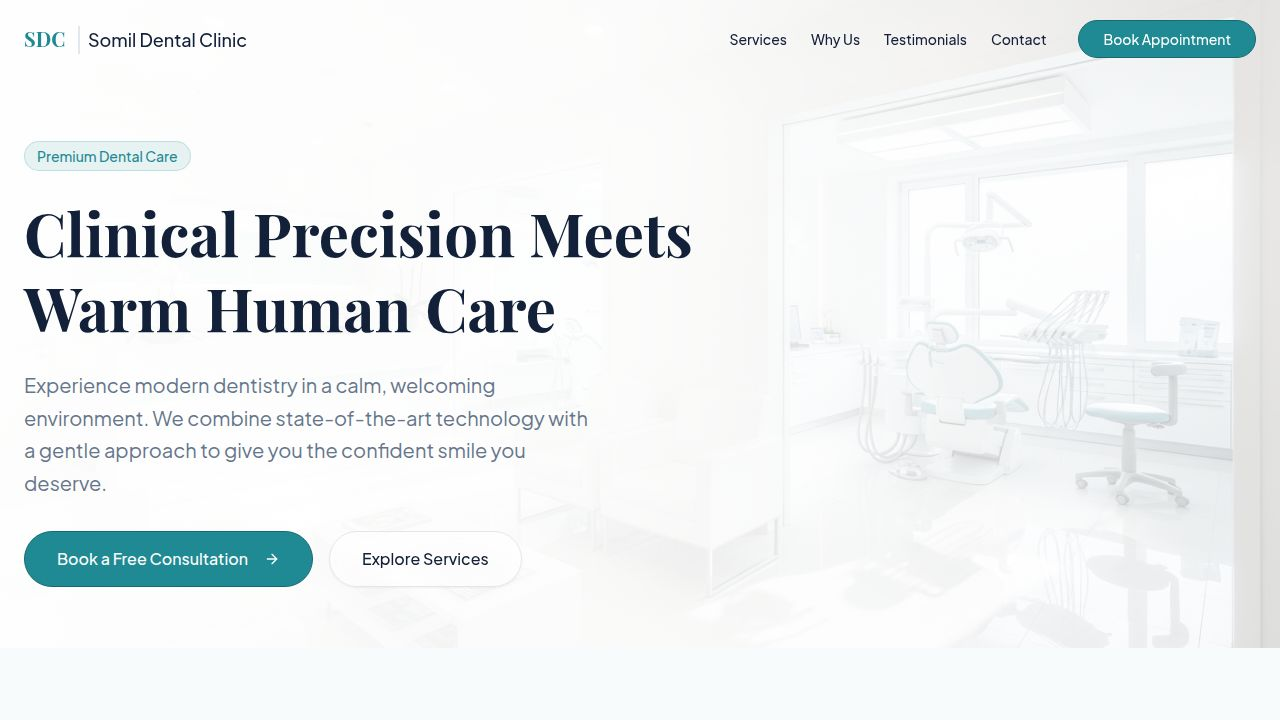
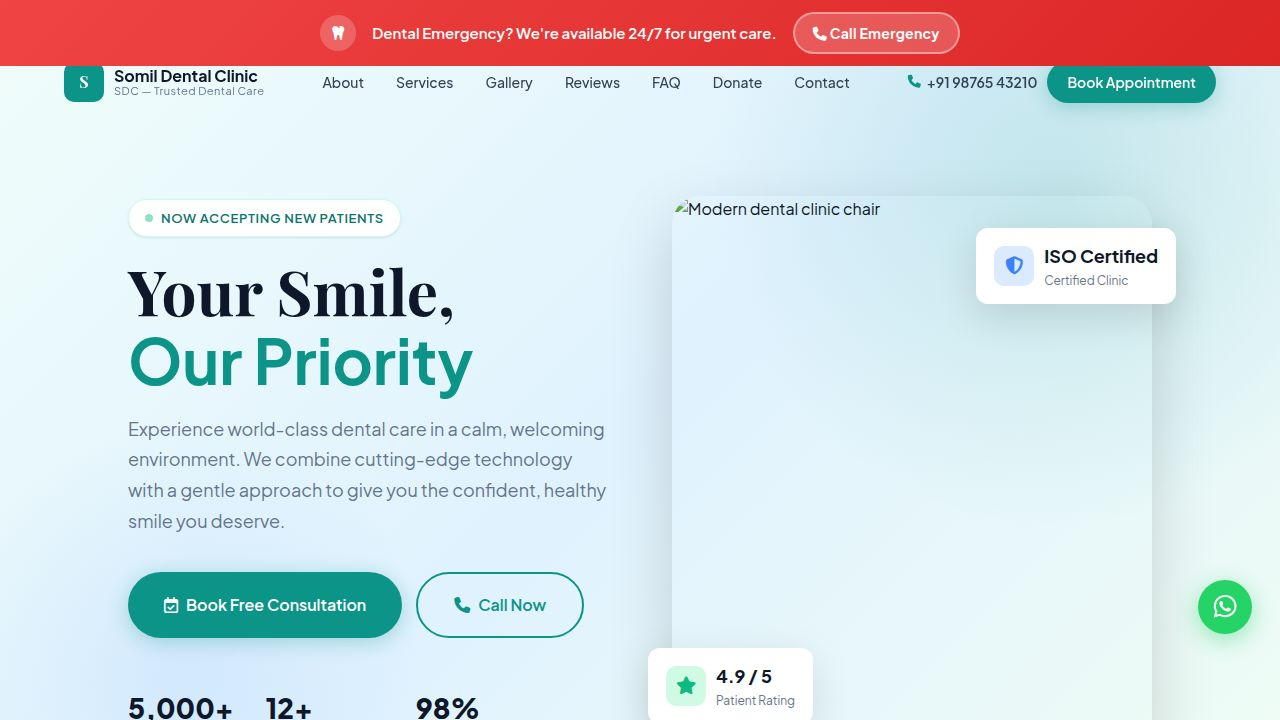
Improve website layout and replace broken images with custom graphics
Update HTML and CSS to fix layout issues, adjust navigation positioning, and replace external image links with self-contained CSS graphics for improved reliability and visual appeal.

Replit-Commit-Author: Agent
Replit-Commit-Session-Id: 4a743ddb-c3e2-49db-ae58-b491e1559357
Replit-Commit-Checkpoint-Type: full_checkpoint
Replit-Commit-Event-Id: 5ab024ab-a13d-489c-9976-1cfe9e0c1359
Replit-Commit-Screenshot-Url: https://storage.googleapis.com/screenshot-production-us-central1/d2936268-8d8a-4b9d-bac0-ba1a2965ee8f/4a743ddb-c3e2-49db-ae58-b491e1559357/mEyPWRg
Replit-Helium-Checkpoint-Created: true

diff --git a/artifacts/sdc-website/index.html b/artifacts/sdc-website/index.html
@@ -99,18 +99,18 @@
        NAVIGATION
     ======================== */
     #navbar {
-      position: fixed; top: 0; left: 0; right: 0; z-index: 1000;
-      transition: background var(--transition), box-shadow var(--transition);
+      position: fixed; top: 48px; left: 0; right: 0; z-index: 1000;
+      transition: background var(--transition), box-shadow var(--transition), top var(--transition);
       padding: 0;
     }
     #navbar.scrolled {
-      background: rgba(255,255,255,.95);
+      background: rgba(255,255,255,.97);
       backdrop-filter: blur(20px);
       box-shadow: 0 2px 24px rgba(0,0,0,.08);
     }
     .nav-inner {
       display: flex; align-items: center; justify-content: space-between;
-      height: 72px; max-width: 1200px; margin: 0 auto; padding: 0 24px;
+      height: 68px; max-width: 1200px; margin: 0 auto; padding: 0 24px;
     }
     .nav-logo { display: flex; align-items: center; gap: 10px; }
     .nav-logo .logo-mark {
@@ -143,7 +143,7 @@
     .hamburger.open span:nth-child(3) { transform: translateY(-7px) rotate(-45deg); }
 
     #mobile-menu {
-      display: none; position: fixed; top: 72px; left: 0; right: 0; bottom: 0;
+      display: none; position: fixed; top: 116px; left: 0; right: 0; bottom: 0;
       background: var(--white); z-index: 999; overflow-y: auto;
       padding: 24px;
     }
@@ -160,10 +160,8 @@
     ======================== */
     #hero {
       min-height: 100vh;
-      background:
-        linear-gradient(135deg, rgba(240,253,250,.97) 0%, rgba(224,242,254,.93) 50%, rgba(240,253,244,.97) 100%),
-        url('https://images.unsplash.com/photo-1606811971618-4486d14f3f99?w=1600&q=80&auto=format&fit=crop') center/cover no-repeat;
-      display: flex; align-items: center; padding-top: 72px;
+      background: linear-gradient(135deg, #f0fdfa 0%, #e0f2fe 50%, #f0fdf4 100%);
+      display: flex; align-items: center; padding-top: 116px;
       position: relative; overflow: hidden;
     }
     #hero::before {
@@ -208,13 +206,54 @@
 
     .hero-visual { position: relative; }
     .hero-card {
-      background: var(--white); border-radius: var(--radius-xl);
+      border-radius: var(--radius-xl);
       box-shadow: var(--shadow-xl); overflow: hidden;
       aspect-ratio: 4/5; max-height: 560px; width: 100%;
-      display: flex; align-items: center; justify-content: center;
-      background: linear-gradient(135deg, #e0f2fe, #ccfbf1);
+      position: relative;
+      background: linear-gradient(145deg, #0f766e 0%, #0d9488 40%, #14b8a6 70%, #2dd4bf 100%);
+      display: flex; flex-direction: column; align-items: center; justify-content: center;
+      padding: 36px 28px; gap: 20px;
     }
-    .hero-card-icon { font-size: 120px; opacity: .15; color: var(--primary); }
+    .hero-card::before {
+      content: ''; position: absolute; top: -60px; right: -60px;
+      width: 200px; height: 200px; border-radius: 50%;
+      background: rgba(255,255,255,.06); pointer-events: none;
+    }
+    .hero-card::after {
+      content: ''; position: absolute; bottom: -40px; left: -40px;
+      width: 160px; height: 160px; border-radius: 50%;
+      background: rgba(255,255,255,.05); pointer-events: none;
+    }
+    .hc-icon-wrap {
+      width: 90px; height: 90px; border-radius: 50%;
+      background: rgba(255,255,255,.18); border: 2px solid rgba(255,255,255,.3);
+      display: flex; align-items: center; justify-content: center;
+      font-size: 42px; color: white;
+    }
+    .hc-title {
+      font-family: 'Playfair Display', serif;
+      font-size: 24px; font-weight: 700; color: white; text-align: center;
+      line-height: 1.3;
+    }
+    .hc-subtitle { font-size: 13px; color: rgba(255,255,255,.75); text-align: center; margin-top: -12px; }
+    .hc-treatments { display: flex; flex-direction: column; gap: 10px; width: 100%; margin-top: 4px; }
+    .hc-treatment {
+      display: flex; align-items: center; gap: 12px;
+      background: rgba(255,255,255,.13); border: 1px solid rgba(255,255,255,.2);
+      border-radius: 50px; padding: 10px 16px;
+      color: white; font-size: 14px; font-weight: 500;
+    }
+    .hc-treatment i { font-size: 13px; color: rgba(255,255,255,.85); flex-shrink: 0; }
+    .hc-price { margin-left: auto; font-size: 13px; font-weight: 700; color: rgba(255,255,255,.9); }
+    .hc-cta {
+      background: white; color: var(--primary-dark);
+      border-radius: 50px; padding: 13px 24px;
+      font-size: 14px; font-weight: 700; text-align: center;
+      width: 100%; cursor: pointer; transition: var(--transition);
+      box-shadow: 0 4px 20px rgba(0,0,0,.15);
+    }
+    .hc-cta:hover { transform: translateY(-1px); box-shadow: 0 6px 28px rgba(0,0,0,.2); }
+    .hero-card-icon { display: none; }
     .hero-badge-float {
       position: absolute; background: var(--white); border-radius: var(--radius);
       box-shadow: var(--shadow-lg); padding: 14px 18px;
@@ -237,8 +276,9 @@
        EMERGENCY BANNER
     ======================== */
     .emergency-banner {
+      position: fixed; top: 0; left: 0; right: 0; z-index: 1001;
       background: linear-gradient(135deg, #ef4444, #dc2626);
-      color: white; padding: 16px 24px;
+      color: white; padding: 12px 24px;
       display: flex; align-items: center; justify-content: center; gap: 16px;
       flex-wrap: wrap; text-align: center;
     }
@@ -263,11 +303,37 @@
     .about-grid { display: grid; grid-template-columns: 1fr 1fr; gap: 80px; align-items: center; }
     .about-visual { position: relative; }
     .about-img-wrap {
-      background: linear-gradient(135deg, var(--primary-50), #dbeafe);
-      border-radius: var(--radius-xl); aspect-ratio: 1;
+      border-radius: var(--radius-xl);
+      overflow: hidden;
+      display: flex; align-items: stretch; justify-content: center;
+      box-shadow: var(--shadow-xl);
+    }
+    .about-doc-card {
+      width: 100%; display: flex; flex-direction: column; align-items: center;
+      background: linear-gradient(145deg, #0f766e 0%, #0d9488 50%, #14b8a6 100%);
+      padding: 40px 28px 32px; gap: 0; text-align: center;
+    }
+    .adc-avatar {
+      width: 88px; height: 88px; border-radius: 50%;
+      background: rgba(255,255,255,.2); border: 3px solid rgba(255,255,255,.35);
       display: flex; align-items: center; justify-content: center;
-      font-size: 100px; color: var(--primary); opacity: .3;
-      max-height: 440px;
+      font-size: 38px; color: white; margin-bottom: 16px;
+    }
+    .adc-name { font-family: 'Playfair Display', serif; font-size: 22px; font-weight: 700; color: white; margin-bottom: 6px; }
+    .adc-role { font-size: 13px; color: rgba(255,255,255,.8); margin-bottom: 20px; }
+    .adc-divider { width: 48px; height: 2px; background: rgba(255,255,255,.3); border-radius: 2px; margin-bottom: 20px; }
+    .adc-facts { display: flex; flex-direction: column; gap: 10px; width: 100%; margin-bottom: 22px; }
+    .adc-fact {
+      display: flex; align-items: center; gap: 10px;
+      background: rgba(255,255,255,.12); border: 1px solid rgba(255,255,255,.18);
+      border-radius: 50px; padding: 9px 16px; font-size: 13px; color: white;
+      font-weight: 500; text-align: left;
+    }
+    .adc-fact i { color: rgba(255,255,255,.8); font-size: 12px; flex-shrink: 0; }
+    .adc-quote {
+      font-size: 14px; color: rgba(255,255,255,.85); font-style: italic;
+      line-height: 1.6; border-top: 1px solid rgba(255,255,255,.2);
+      padding-top: 18px; margin-top: 4px;
     }
     .about-stat-cards {
       position: absolute; bottom: -20px; right: -20px;
@@ -936,7 +1002,18 @@
     </div>
     <div class="hero-visual">
       <div class="hero-card">
-        <i class="fa-solid fa-tooth hero-card-icon"></i>
+        <div class="hc-icon-wrap"><i class="fa-solid fa-tooth"></i></div>
+        <div class="hc-title">Trusted Dental Care<br>in Your City</div>
+        <div class="hc-subtitle">Affordable · Painless · Expert Doctors</div>
+        <div class="hc-treatments">
+          <div class="hc-treatment"><i class="fa-solid fa-circle-check"></i> General Checkup <span class="hc-price">from ₹100</span></div>
+          <div class="hc-treatment"><i class="fa-solid fa-circle-check"></i> Teeth Cleaning <span class="hc-price">from ₹500</span></div>
+          <div class="hc-treatment"><i class="fa-solid fa-circle-check"></i> Root Canal (RCT) <span class="hc-price">from ₹3,000</span></div>
+          <div class="hc-treatment"><i class="fa-solid fa-circle-check"></i> Braces &amp; Aligners <span class="hc-price">from ₹25,000</span></div>
+        </div>
+        <a href="#appointment" class="hc-cta">
+          <i class="fa-regular fa-calendar-check"></i> Book Free Consultation
+        </a>
       </div>
       <div class="hero-badge-float badge-1">
         <div class="hbf-icon green"><i class="fa-solid fa-star"></i></div>
@@ -964,7 +1041,19 @@
     <div class="about-grid">
       <div class="about-visual reveal">
         <div class="about-img-wrap">
-          <i class="fa-solid fa-user-doctor"></i>
+          <div class="about-doc-card">
+            <div class="adc-avatar"><i class="fa-solid fa-user-doctor"></i></div>
+            <div class="adc-name">Dr. Somil Sharma</div>
+            <div class="adc-role">BDS, MDS — Lead Dentist &amp; Founder</div>
+            <div class="adc-divider"></div>
+            <div class="adc-facts">
+              <div class="adc-fact"><i class="fa-solid fa-graduation-cap"></i> Certified in Orthodontics &amp; Implantology</div>
+              <div class="adc-fact"><i class="fa-solid fa-hospital"></i> 12+ Years Clinical Experience</div>
+              <div class="adc-fact"><i class="fa-solid fa-award"></i> 5,000+ Successful Treatments</div>
+              <div class="adc-fact"><i class="fa-solid fa-child"></i> Specialised in Paediatric Dentistry</div>
+            </div>
+            <div class="adc-quote">"Your comfort is my top priority at every single visit."</div>
+          </div>
         </div>
         <div class="about-stat-cards">
           <div class="about-stat-card">